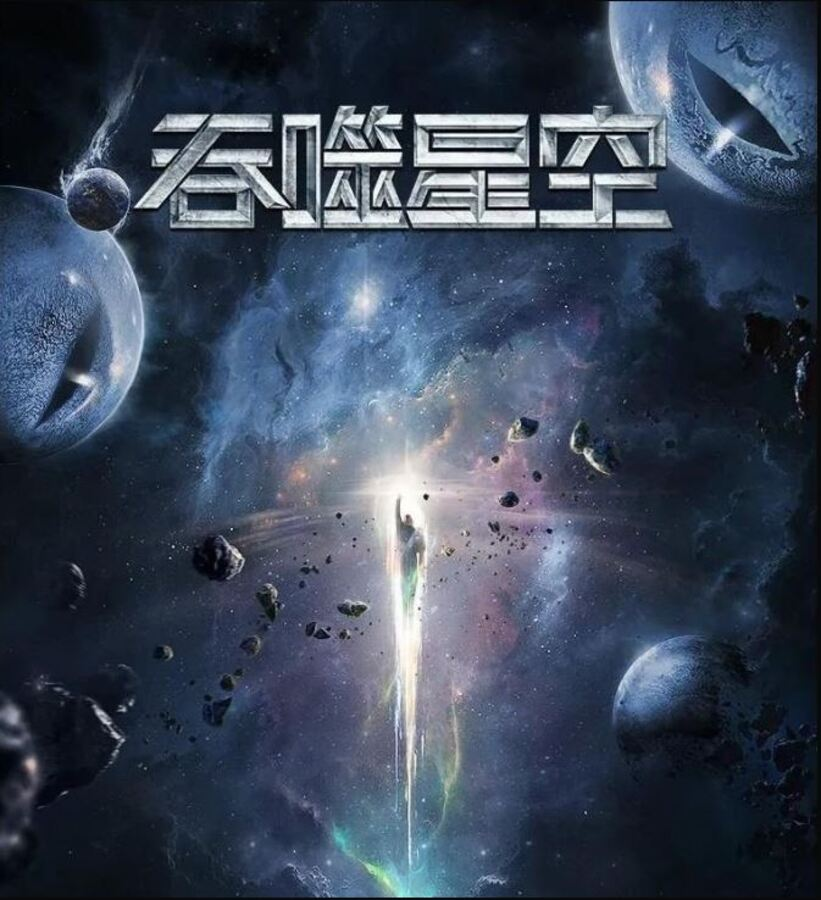
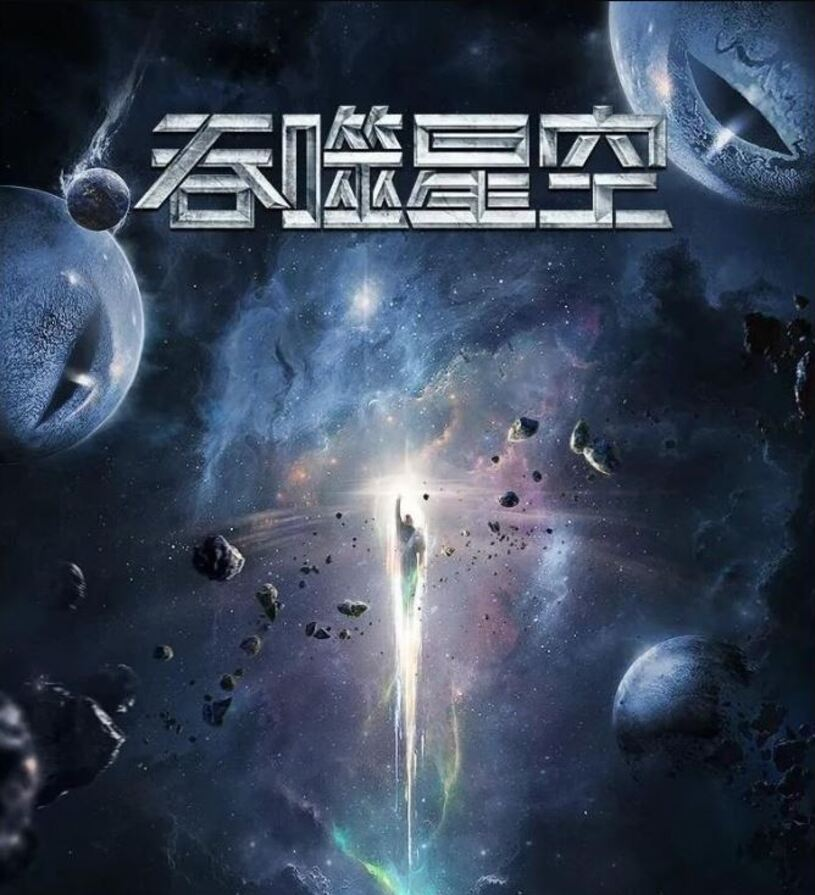
fix

diff --git a/main.py b/main.py
@@ -13,8 +13,8 @@ TURQUOISE = (37,253,233)
 WHITE = (255,255,255)
 GREEN = (0,255,0)
 
-width = 821
-height = 900
+width = 815
+height = 895
 #Initialize the game and create screen
 
 pygame.init()
